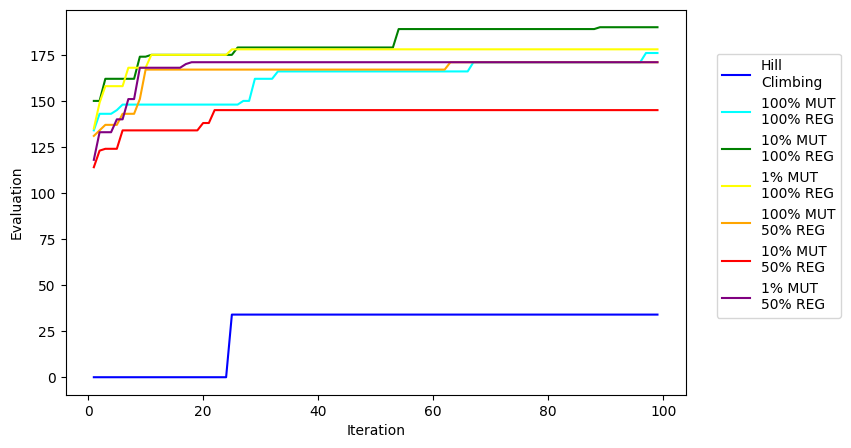
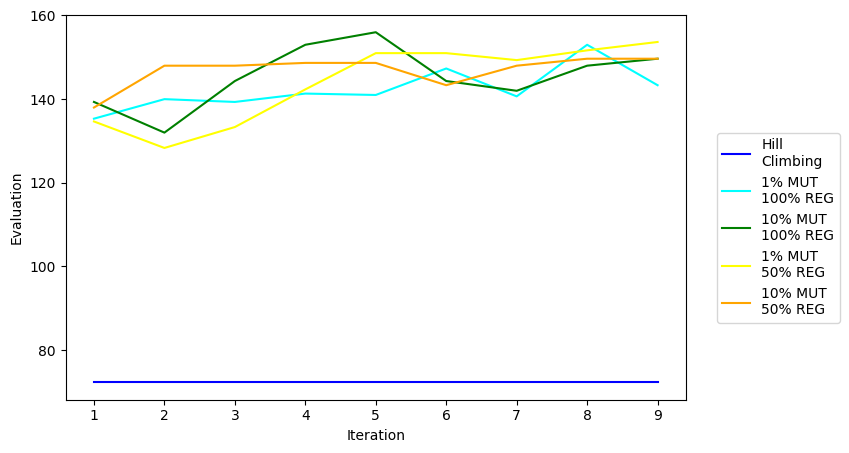
Changed genetic plot

diff --git a/graphs.py b/graphs.py
@@ -73,14 +73,14 @@ def timed_func(args: Args):
 
 def plot_genetic(data_center, iterations, neighbour_modes):
     initial_solution = random_solution(data_center)
-    ga_values = [[0,0] for x in range(4)]
+    ga_values = [[0,0,0] for x in range(5)]
 
     population_size = 80
     threads = []
 
     q = Queue()
 
-    args = Args(data_center, iterations, initial_solution,q,0,population_size,1,1, 'hillclimb', neighbour_modes,0,'',0)
+    args = Args(data_center, iterations, initial_solution,q,0,population_size,0.01,1, 'hillclimb', neighbour_modes,0,'',0)
 
     process = worker(target=timed_func, args=(args,))
     process.start()
@@ -96,7 +96,12 @@ def plot_genetic(data_center, iterations, neighbour_modes):
     process.start()
     threads.append(process)
 
-    args.mutation_chance, args.i = 0.01, 3
+    args.mutation_chance, args.replaced_each_generation, args.i = 0.01, 0.5, 3
+    process = worker(target=timed_func, args=(args,))
+    process.start()
+    threads.append(process)
+
+    args.mutation_chance, args.replaced_each_generation, args.i = 0.1, 0.5, 4
     process = worker(target=timed_func, args=(args,))
     process.start()
     threads.append(process)
@@ -111,10 +116,6 @@ def plot_genetic(data_center, iterations, neighbour_modes):
     # process.start()
     # threads.append(process)
 
-    # args.mutation_chance, args.i = 0.01, 6
-    # process = worker(target=timed_func, args =(args,))
-    # process.start()
-    # threads.append(process)
 
     # We now pause execution on the main thread by 'joining' all of our started threads.
     # This ensuq that each has finished processing the urls.
@@ -130,11 +131,10 @@ def plot_genetic(data_center, iterations, neighbour_modes):
         times = [t/10 for t in times]
         time_label = "time (decasec)"
     algorithms = ["Hill\nClimbing", 
-    "100% MUT\n100% REG",
+    "1% MUT\n100% REG",
     '10% MUT\n100% REG',
-    '1% MUT\n100% REG']
-
-
+    '1% MUT\n50% REG',
+    '10% MUT\n50% REG']
 
     x_axis = np.arange(len(algorithms))
     pyplot.figure(figsize=(8, 5))
